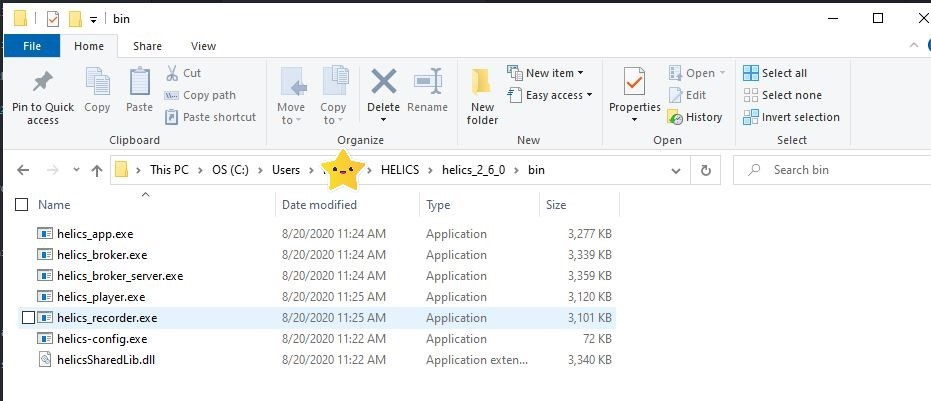
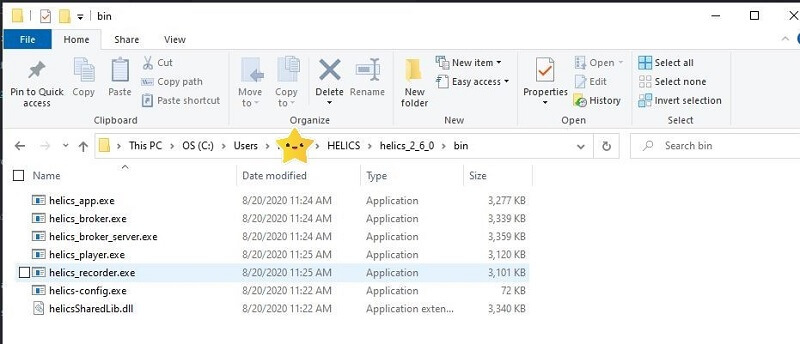
resized/compressed images + fixed link for hello-world-VS reference

diff --git a/docs/introduction/hello-world.md b/docs/introduction/hello-world.md
@@ -87,7 +87,7 @@ You should see `Hello, World` printed out in the terminal where you ran
 the `hello_world_receiver`.
 
 *For a guide to run this example in Visual Studio go to this link:
-[hello-world-VS](https://helics--1621.org.readthedocs.build/en/1621/introduction/hello-world-VS.html).*
+[hello-world-VS](./hello-world-VS.md).*
 
 
 **Anatomy of a HELICS federation**

diff --git a/docs/introduction/hello-world-VS.md b/docs/introduction/hello-world-VS.md
@@ -39,7 +39,7 @@
 
         ![](./visuals/lib.JPG)
 
-      -  include:
+    -  include:
 
         ![](./visuals/include.JPG)
 
